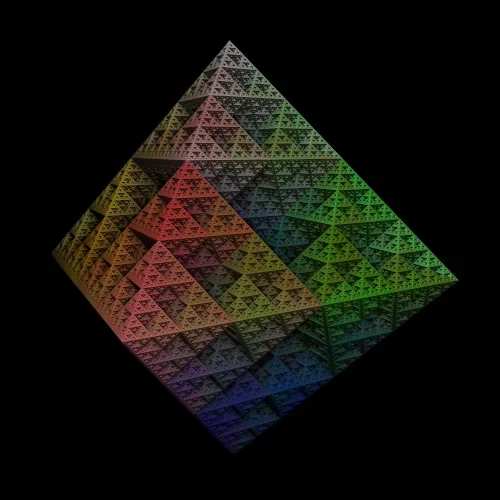
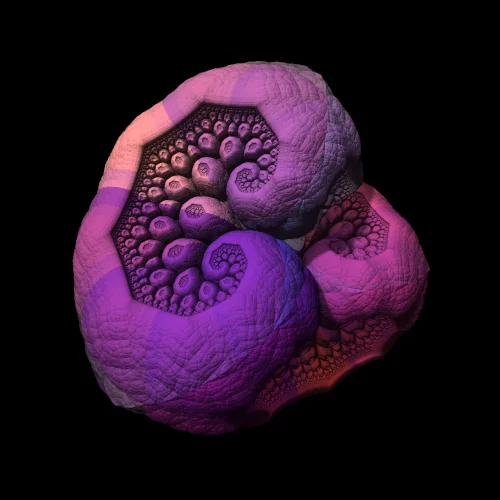
Simplified the Kaleidoscopic IFS code a bit

diff --git a/applets/kaleidoscopic-ifs-fractals/scripts/class.min.js b/applets/kaleidoscopic-ifs-fractals/scripts/class.min.js
@@ -1,4 +1,4 @@
-import{getVectorGlsl}from"/scripts/applets/applet.min.js";import{RaymarchApplet}from"/scripts/applets/raymarchApplet.min.js";import{changeOpacity}from"/scripts/src/animation.min.js";const ns={tetrahedron:[[-.57735,0,.816496],[.288675,-.5,.816496],[.288675,.5,.816496]],cube:[[1,0,0],[0,1,0],[0,0,1]],octahedron:[[.707107,0,.707107],[0,.707107,.707107],[-.707107,0,.707107],[0,-.707107,.707107]]},scaleCenters={tetrahedron:[0,0,1],cube:[.57735,.57735,.57735],octahedron:[0,0,1]},maxIterations=48;function getDistanceEstimatorGlsl(shape,useForGetColor=!1){var t=shape[0].toUpperCase()+shape.slice(1);return`
+import{getVectorGlsl}from"/scripts/applets/applet.min.js";import{RaymarchApplet}from"/scripts/applets/raymarchApplet.min.js";import{changeOpacity}from"/scripts/src/animation.min.js";const ns={tetrahedron:[[-.57735,0,.816496],[.288675,-.5,.816496],[.288675,.5,.816496]],cube:[[1,0,0],[0,1,0],[0,0,1]],octahedron:[[.707107,0,.707107],[0,.707107,.707107],[-.707107,0,.707107],[0,-.707107,.707107]]},scaleCenters={tetrahedron:[0,0,1],cube:[.57735,.57735,.57735],octahedron:[0,0,1]},maxIterations=32;function getDistanceEstimatorGlsl(shape,useForGetColor=!1){var t=shape[0].toUpperCase()+shape.slice(1);return`
 		${useForGetColor?"vec3 color = vec3(1.0, 1.0, 1.0); float colorScale = .5;":""}
 		//We'll find the closest vertex, scale everything by a factor of 2 centered on that vertex (so that we don't need to recalculate the vertices), and repeat.
 		for (int iteration = 0; iteration < maxIterations; iteration++)
@@ -47,7 +47,7 @@ import{getVectorGlsl}from"/scripts/applets/applet.min.js";import{RaymarchApplet}
 		}
 		
 		return ${useForGetColor?"color":"length(pos) * pow(1.0/scale, float(maxIterations))"};
-	`}class KaleidoscopicIFSFractal extends RaymarchApplet{rotationAngleX2=0;rotationAngleY2=0;rotationAngleZ2=0;shape="octahedron";constructor({canvas,shape="octahedron"}){var t=`
+	`}class KaleidoscopicIFSFractal extends RaymarchApplet{rotationAngleX2=0;rotationAngleY2=0;rotationAngleZ2=0;rotationMatrix;shape="octahedron";constructor({canvas,shape="octahedron"}){var t=`
 			const int maxIterations = ${maxIterations};
 			
 			const vec3 color1 = vec3(1.0, 0.0, 0.0);
@@ -70,4 +70,4 @@ import{getVectorGlsl}from"/scripts/applets/applet.min.js";import{RaymarchApplet}
 			const vec3 n3Octahedron = ${getVectorGlsl(ns.octahedron[2])};
 			const vec3 n4Octahedron = ${getVectorGlsl(ns.octahedron[3])};
 			const vec3 scaleCenterOctahedron = ${getVectorGlsl(scaleCenters.octahedron)};
-		`;super({canvas:canvas,distanceEstimatorGlsl:getDistanceEstimatorGlsl(shape),getColorGlsl:getDistanceEstimatorGlsl(shape,!0),addGlsl:t,uniforms:{scale:["float",2],rotationMatrix2:["mat3",[1,0,0,0,1,0,0,0,1]]},theta:.2004,phi:1.6538,cameraPos:[-1.7346,-.4485,.2596],lightPos:[-50,-70,100],lightBrightness:1.25,epsilonScaling:.75,stepFactor:.6}),this.shape=shape}distanceEstimator(x,y,z){var t=this.uniforms.scale[1],e=ns[this.shape??"octahedron"],o=scaleCenters[this.shape??"octahedron"];for(let c=0;c<maxIterations;c++){var a=RaymarchApplet.dotProduct([x,y,z],e[0]),a=(a<0&&(x-=2*a*e[0][0],y-=2*a*e[0][1],z-=2*a*e[0][2]),RaymarchApplet.dotProduct([x,y,z],e[1])),a=(a<0&&(x-=2*a*e[1][0],y-=2*a*e[1][1],z-=2*a*e[1][2]),RaymarchApplet.dotProduct([x,y,z],e[2])),a=(a<0&&(x-=2*a*e[2][0],y-=2*a*e[2][1],z-=2*a*e[2][2]),4<=ns.length&&(a=RaymarchApplet.dotProduct([x,y,z],e[3]))<0&&(x-=2*a*e[3][0],y-=2*a*e[3][1],z-=2*a*e[3][2]),x=t*x-(t-1)*o[0],y=t*y-(t-1)*o[1],z=t*z-(t-1)*o[2],[[Math.cos(this.rotationAngleZ2),-Math.sin(this.rotationAngleZ2),0],[Math.sin(this.rotationAngleZ2),Math.cos(this.rotationAngleZ2),0],[0,0,1]]),s=[[Math.cos(this.rotationAngleY2),0,-Math.sin(this.rotationAngleY2)],[0,1,0],[Math.sin(this.rotationAngleY2),0,Math.cos(this.rotationAngleY2)]],r=[[1,0,0],[0,Math.cos(this.rotationAngleX2),-Math.sin(this.rotationAngleX2)],[0,Math.sin(this.rotationAngleX2),Math.cos(this.rotationAngleX2)]],a=RaymarchApplet.matMul(RaymarchApplet.matMul(a,s),r),s=x,r=y,n=z;x=a[0][0]*s+a[0][1]*r+a[0][2]*n,y=a[1][0]*s+a[1][1]*r+a[1][2]*n,z=a[2][0]*s+a[2][1]*r+a[2][2]*n}return Math.sqrt(x*x+y*y+z*z)*Math.pow(t,-maxIterations)}updateMatrices(){var t=[[Math.cos(this.rotationAngleZ2),-Math.sin(this.rotationAngleZ2),0],[Math.sin(this.rotationAngleZ2),Math.cos(this.rotationAngleZ2),0],[0,0,1]],e=[[Math.cos(this.rotationAngleY2),0,-Math.sin(this.rotationAngleY2)],[0,1,0],[Math.sin(this.rotationAngleY2),0,Math.cos(this.rotationAngleY2)]],o=[[1,0,0],[0,Math.cos(this.rotationAngleX2),-Math.sin(this.rotationAngleX2)],[0,Math.sin(this.rotationAngleX2),Math.cos(this.rotationAngleX2)]],t=RaymarchApplet.matMul(RaymarchApplet.matMul(t,e),o);this.setUniform("rotationMatrix2",[t[0][0],t[1][0],t[2][0],t[0][1],t[1][1],t[2][1],t[0][2],t[1][2],t[2][2]]),this.needNewFrame=!0}async changePolyhedron(newShape){await changeOpacity({element:this.canvas,opacity:0}),this.shape=newShape;var t=getDistanceEstimatorGlsl(this.shape),e=getDistanceEstimatorGlsl(this.shape,!0);this.reloadShader({distanceEstimatorGlsl:t,getColorGlsl:e}),await changeOpacity({element:this.canvas,opacity:1})}}export{KaleidoscopicIFSFractal};
+		`;super({canvas:canvas,distanceEstimatorGlsl:getDistanceEstimatorGlsl(shape),getColorGlsl:getDistanceEstimatorGlsl(shape,!0),addGlsl:t,uniforms:{scale:["float",2],rotationMatrix2:["mat3",[1,0,0,0,1,0,0,0,1]]},theta:.2004,phi:1.6538,cameraPos:[-1.7346,-.4485,.2596],lightPos:[-50,-70,100],lightBrightness:1.25,epsilonScaling:.75,stepFactor:.6}),this.shape=shape}distanceEstimator(x,y,z){var t=this.uniforms.scale[1],e=ns[this.shape??"octahedron"],o=scaleCenters[this.shape??"octahedron"];for(let n=0;n<maxIterations;n++){var a=RaymarchApplet.dotProduct([x,y,z],e[0]),a=(a<0&&(x-=2*a*e[0][0],y-=2*a*e[0][1],z-=2*a*e[0][2]),RaymarchApplet.dotProduct([x,y,z],e[1])),a=(a<0&&(x-=2*a*e[1][0],y-=2*a*e[1][1],z-=2*a*e[1][2]),RaymarchApplet.dotProduct([x,y,z],e[2])),a=(a<0&&(x-=2*a*e[2][0],y-=2*a*e[2][1],z-=2*a*e[2][2]),4<=ns.length&&(a=RaymarchApplet.dotProduct([x,y,z],e[3]))<0&&(x-=2*a*e[3][0],y-=2*a*e[3][1],z-=2*a*e[3][2]),x=t*x-(t-1)*o[0]),r=y=t*y-(t-1)*o[1],s=z=t*z-(t-1)*o[2];x=this.rotationMatrix[0][0]*a+this.rotationMatrix[0][1]*r+this.rotationMatrix[0][2]*s,y=this.rotationMatrix[1][0]*a+this.rotationMatrix[1][1]*r+this.rotationMatrix[1][2]*s,z=this.rotationMatrix[2][0]*a+this.rotationMatrix[2][1]*r+this.rotationMatrix[2][2]*s}return Math.sqrt(x*x+y*y+z*z)*Math.pow(t,-maxIterations)}updateMatrices(){var t=[[Math.cos(this.rotationAngleZ2),-Math.sin(this.rotationAngleZ2),0],[Math.sin(this.rotationAngleZ2),Math.cos(this.rotationAngleZ2),0],[0,0,1]],e=[[Math.cos(this.rotationAngleY2),0,-Math.sin(this.rotationAngleY2)],[0,1,0],[Math.sin(this.rotationAngleY2),0,Math.cos(this.rotationAngleY2)]],o=[[1,0,0],[0,Math.cos(this.rotationAngleX2),-Math.sin(this.rotationAngleX2)],[0,Math.sin(this.rotationAngleX2),Math.cos(this.rotationAngleX2)]];this.rotationMatrix=RaymarchApplet.matMul(RaymarchApplet.matMul(t,e),o),this.setUniform("rotationMatrix2",[this.rotationMatrix[0][0],this.rotationMatrix[1][0],this.rotationMatrix[2][0],this.rotationMatrix[0][1],this.rotationMatrix[1][1],this.rotationMatrix[2][1],this.rotationMatrix[0][2],this.rotationMatrix[1][2],this.rotationMatrix[2][2]]),this.needNewFrame=!0}async changePolyhedron(newShape){await changeOpacity({element:this.canvas,opacity:0}),this.shape=newShape;var t=getDistanceEstimatorGlsl(this.shape),e=getDistanceEstimatorGlsl(this.shape,!0);this.reloadShader({distanceEstimatorGlsl:t,getColorGlsl:e}),await changeOpacity({element:this.canvas,opacity:1})}}export{KaleidoscopicIFSFractal};

diff --git a/applets/kaleidoscopic-ifs-fractals/scripts/class.js b/applets/kaleidoscopic-ifs-fractals/scripts/class.js
@@ -27,7 +27,7 @@ const scaleCenters = {
 	octahedron: [0, 0, 1]
 };
 
-const maxIterations = 48;
+const maxIterations = 32;
 
 function getDistanceEstimatorGlsl(shape, useForGetColor = false)
 {
@@ -91,6 +91,7 @@ export class KaleidoscopicIFSFractal extends RaymarchApplet
 	rotationAngleX2 = 0;
 	rotationAngleY2 = 0;
 	rotationAngleZ2 = 0;
+	rotationMatrix;
 
 	shape = "octahedron";
 
@@ -211,36 +212,20 @@ export class KaleidoscopicIFSFractal extends RaymarchApplet
 			y = scale * y - (scale - 1) * scaleCenter[1];
 			z = scale * z - (scale - 1) * scaleCenter[2];
 
-			const matZ = [
-				[Math.cos(this.rotationAngleZ2), -Math.sin(this.rotationAngleZ2), 0],
-				[Math.sin(this.rotationAngleZ2), Math.cos(this.rotationAngleZ2), 0],
-				[0, 0, 1]
-			];
-
-			const matY = [
-				[Math.cos(this.rotationAngleY2), 0, -Math.sin(this.rotationAngleY2)],
-				[0, 1, 0],
-				[Math.sin(this.rotationAngleY2), 0, Math.cos(this.rotationAngleY2)]
-			];
-
-			const matX = [
-				[1, 0, 0],
-				[0, Math.cos(this.rotationAngleX2), -Math.sin(this.rotationAngleX2)],
-				[0, Math.sin(this.rotationAngleX2), Math.cos(this.rotationAngleX2)]
-			];
-
-			const matTotal = RaymarchApplet.matMul(RaymarchApplet.matMul(matZ, matY), matX);
-
 			const tempX = x;
 			const tempY = y;
 			const tempZ = z;
 
-			x = matTotal[0][0] * tempX + matTotal[0][1] * tempY + matTotal[0][2] * tempZ;
-			y = matTotal[1][0] * tempX + matTotal[1][1] * tempY + matTotal[1][2] * tempZ;
-			z = matTotal[2][0] * tempX + matTotal[2][1] * tempY + matTotal[2][2] * tempZ;
+			x = this.rotationMatrix[0][0] * tempX
+				+ this.rotationMatrix[0][1] * tempY
+				+ this.rotationMatrix[0][2] * tempZ;
+			y = this.rotationMatrix[1][0] * tempX
+				+ this.rotationMatrix[1][1] * tempY
+				+ this.rotationMatrix[1][2] * tempZ;
+			z = this.rotationMatrix[2][0] * tempX
+				+ this.rotationMatrix[2][1] * tempY
+				+ this.rotationMatrix[2][2] * tempZ;
 		}
-
-
 
 		// So at this point we've scaled up by 2x a total of numIterations times.
 		// The final distance is therefore:
@@ -268,18 +253,18 @@ export class KaleidoscopicIFSFractal extends RaymarchApplet
 			[0, Math.sin(this.rotationAngleX2), Math.cos(this.rotationAngleX2)]
 		];
 
-		const matTotal = RaymarchApplet.matMul(RaymarchApplet.matMul(matZ, matY), matX);
+		this.rotationMatrix = RaymarchApplet.matMul(RaymarchApplet.matMul(matZ, matY), matX);
 
 		this.setUniform("rotationMatrix2", [
-			matTotal[0][0],
-			matTotal[1][0],
-			matTotal[2][0],
-			matTotal[0][1],
-			matTotal[1][1],
-			matTotal[2][1],
-			matTotal[0][2],
-			matTotal[1][2],
-			matTotal[2][2]
+			this.rotationMatrix[0][0],
+			this.rotationMatrix[1][0],
+			this.rotationMatrix[2][0],
+			this.rotationMatrix[0][1],
+			this.rotationMatrix[1][1],
+			this.rotationMatrix[2][1],
+			this.rotationMatrix[0][2],
+			this.rotationMatrix[1][2],
+			this.rotationMatrix[2][2]
 		]);
 
 		this.needNewFrame = true;
